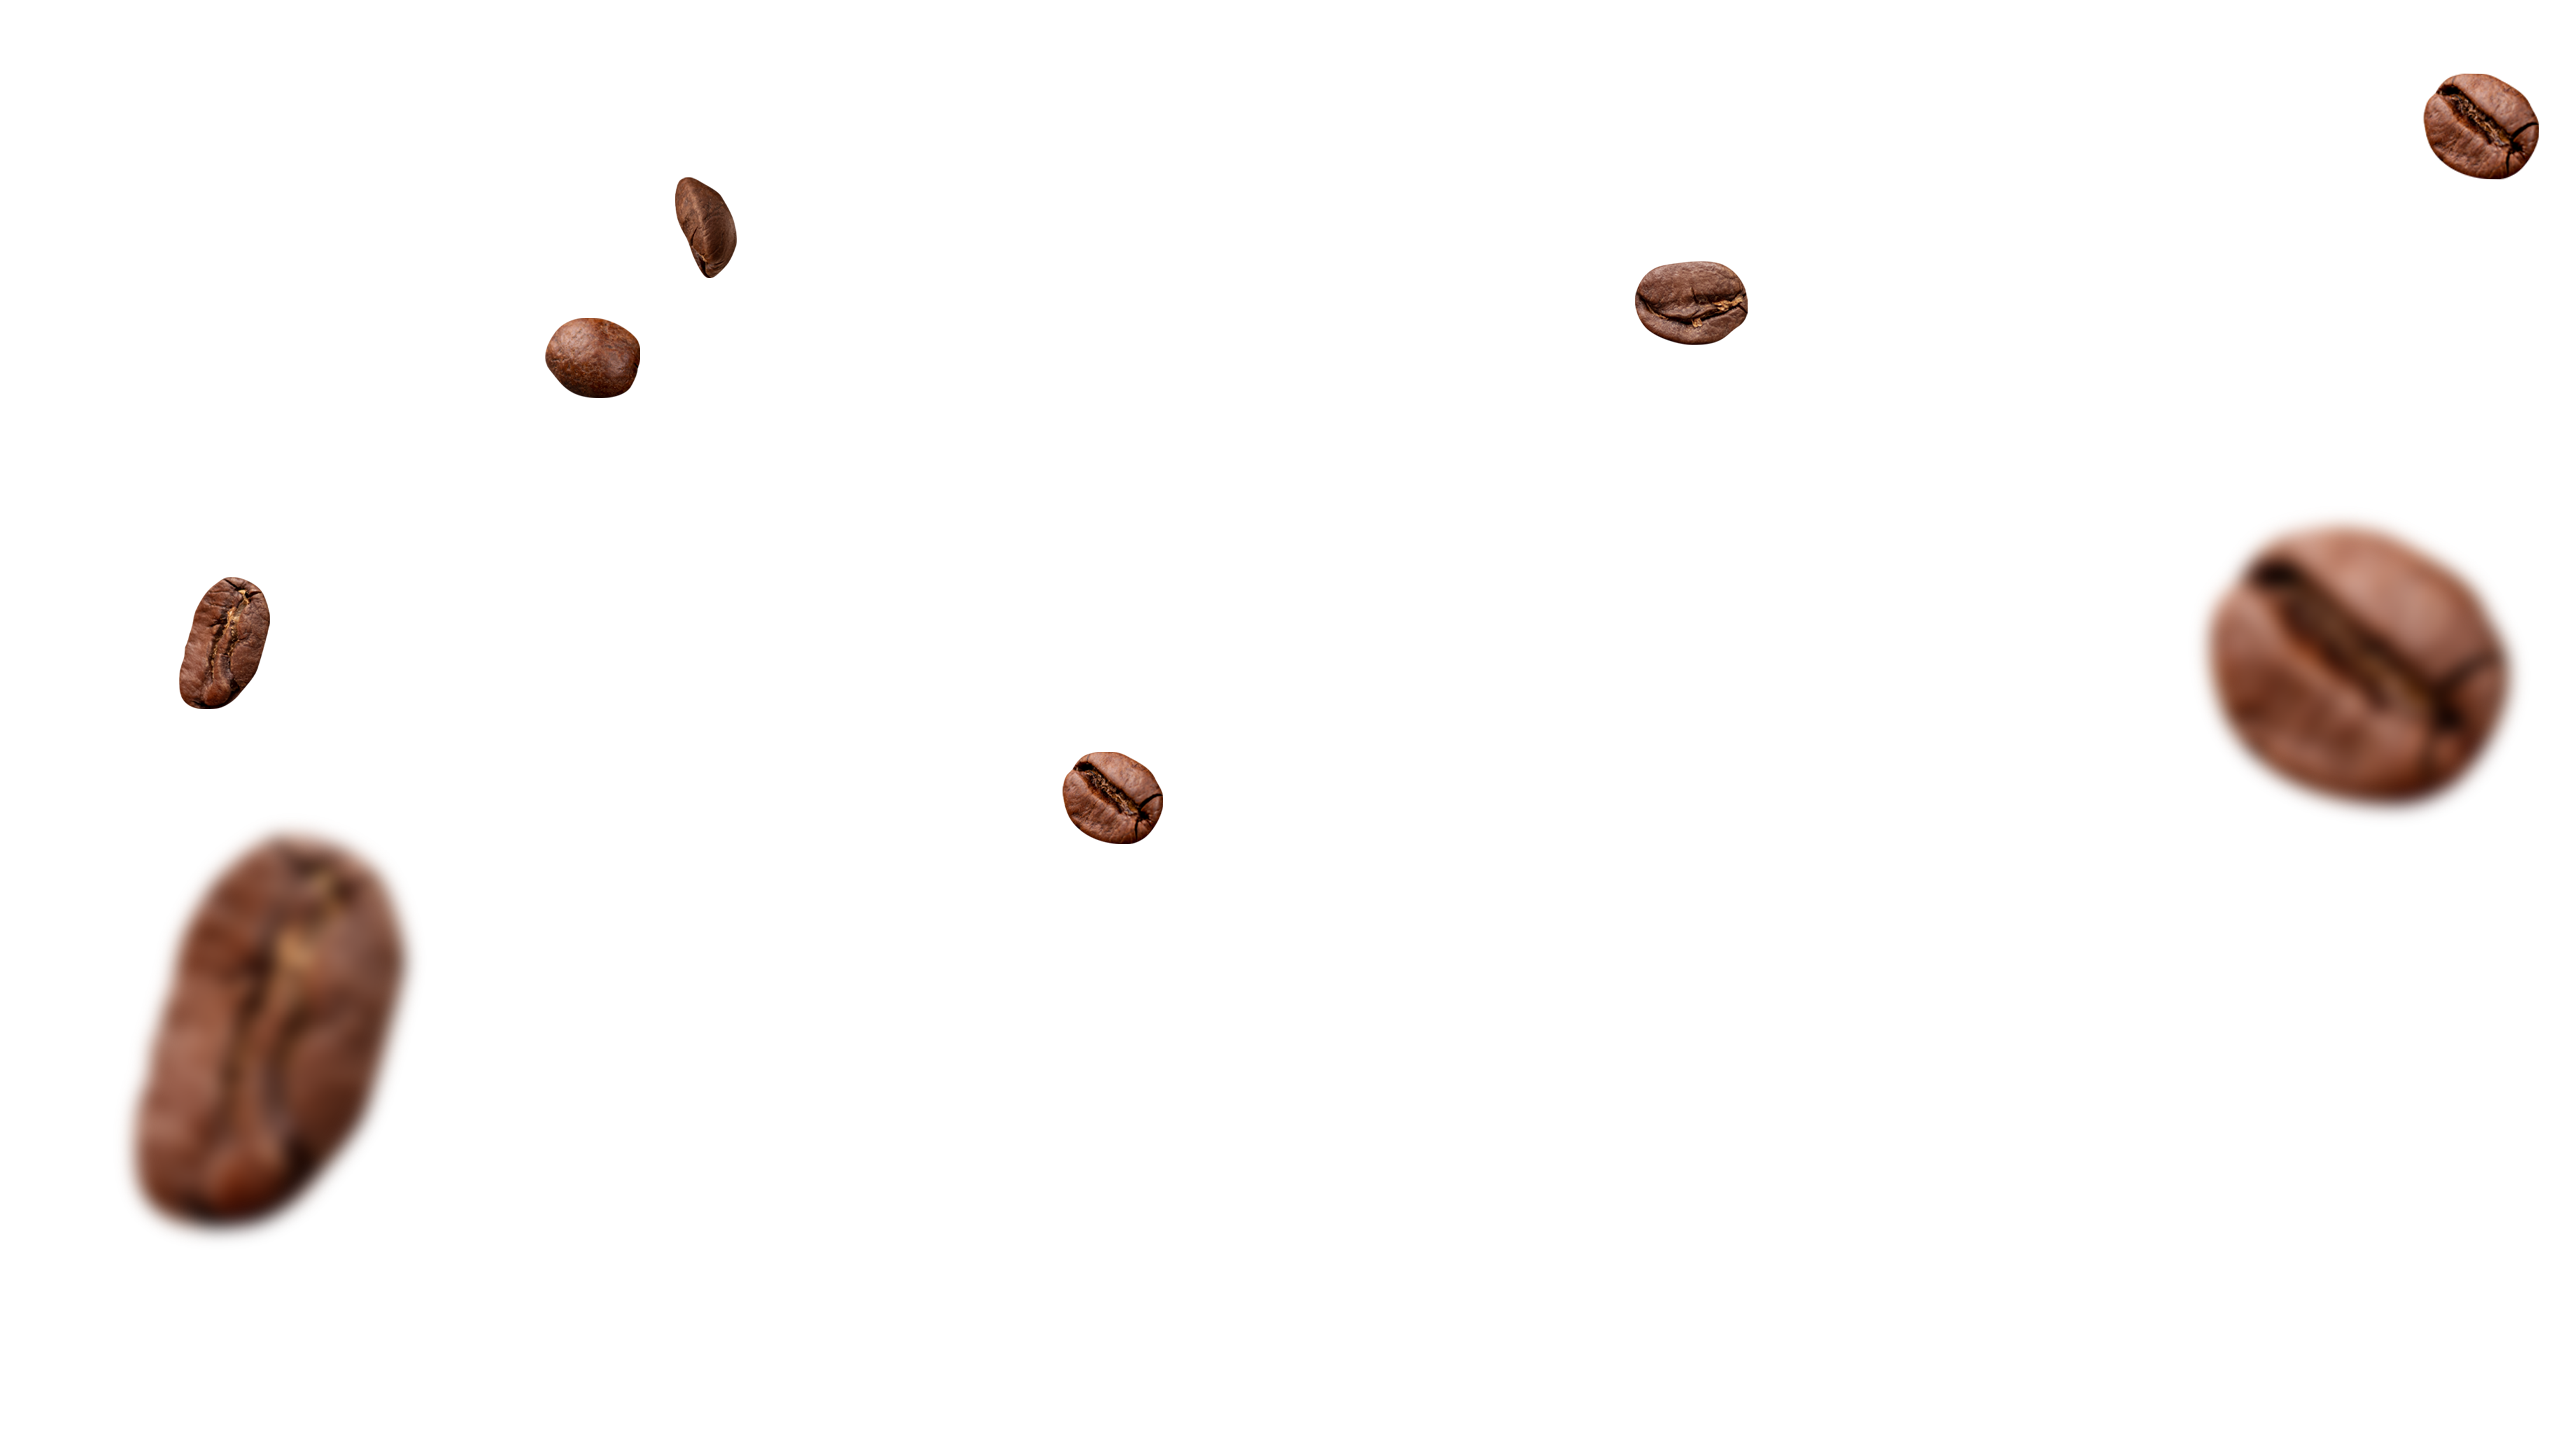
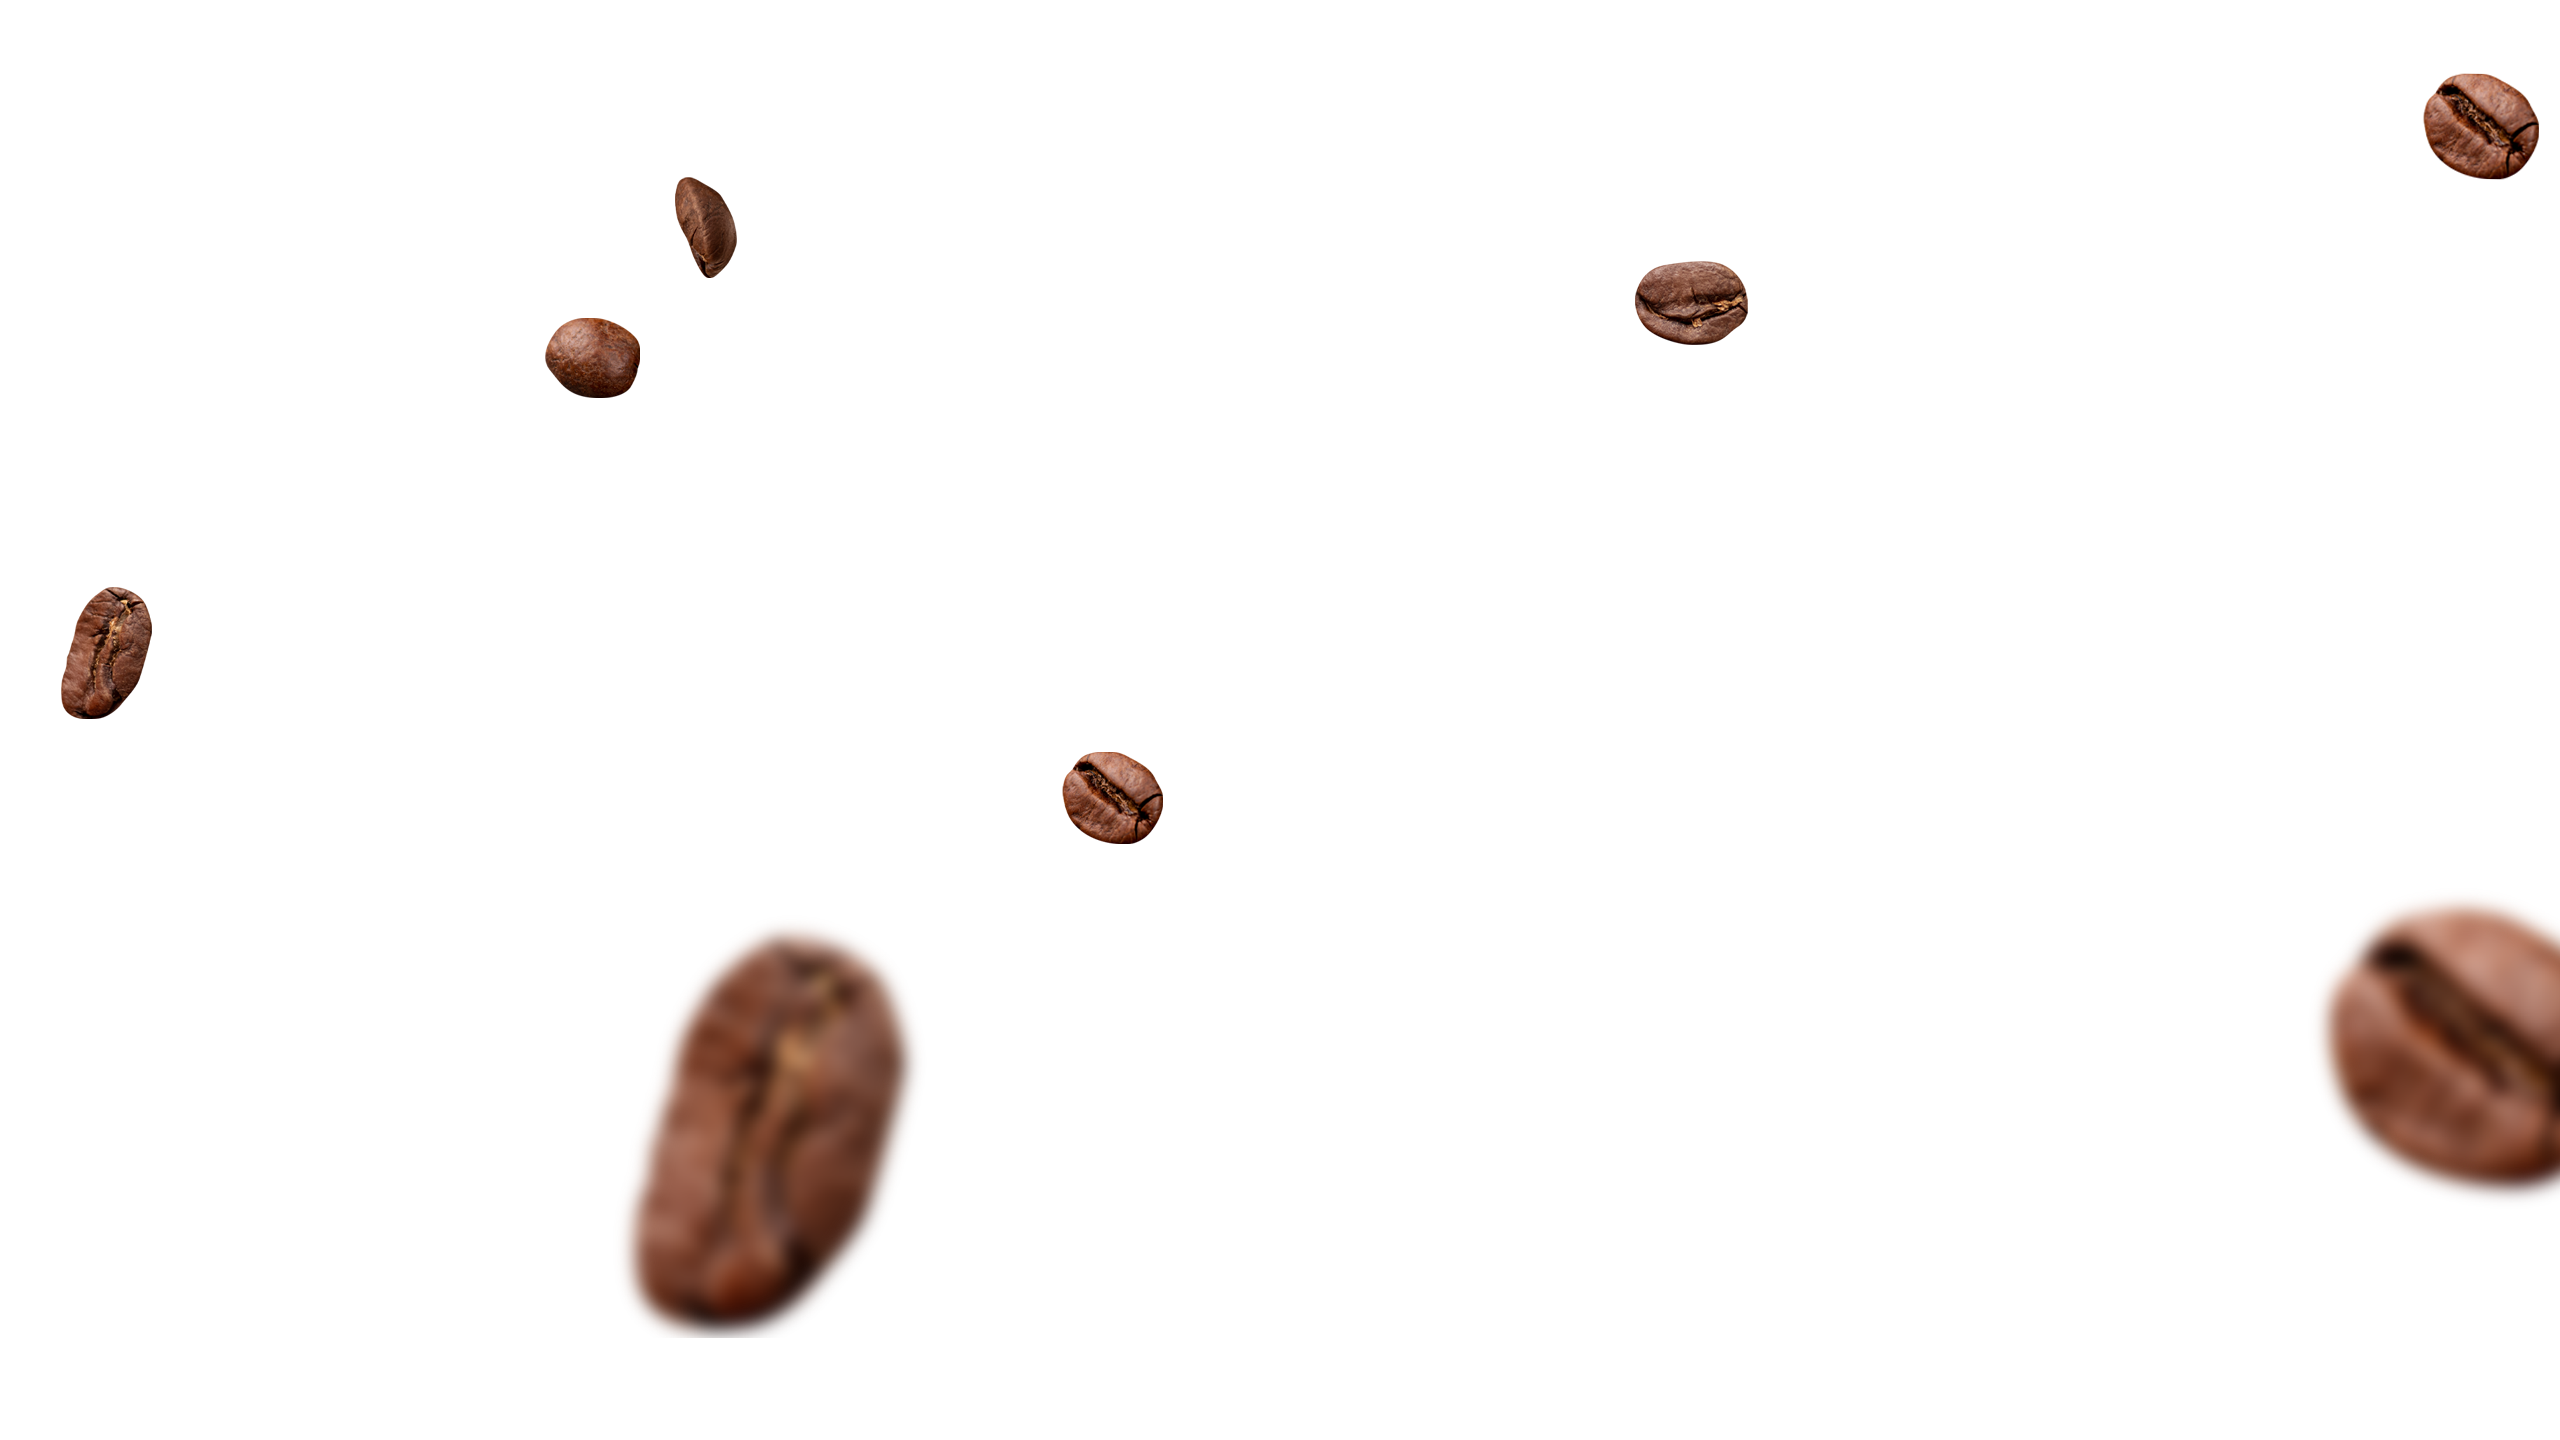
Ajustes agosto

diff --git a/mail/sentValidation.js b/mail/sentValidation.js
@@ -1,46 +1,95 @@
 document.addEventListener('DOMContentLoaded', function() {
-    const form = document.getElementById('contactForm');
+
+    // --- Lógica para el Formulario de Contacto ---
+    const contactForm = document.getElementById('contactForm');
     const formMessage = document.getElementById('formMessage');
     const submitButton = document.getElementById('sendMessageButton');
 
-    // La URL de tu endpoint de Formspree
-    const formspreeEndpoint = 'https://formspree.io/f/mdkdzjqz'; // ¡CAMBIA ESTO CON TU URL REAL!
+    // La URL de tu endpoint de Formspree para el formulario de contacto
+    const formspreeContactEndpoint = 'https://formspree.io/f/mdkdzjqz';
 
-    form.addEventListener('submit', async function(event) {
-        event.preventDefault(); // Evita que el formulario se envíe de forma tradicional (recarga la página)
+    if (contactForm) {
+        contactForm.addEventListener('submit', async function(event) {
+            event.preventDefault();
 
-        submitButton.disabled = true; // Deshabilita el botón para evitar múltiples envíos
-        formMessage.innerHTML = ''; // Limpia cualquier mensaje anterior
+            submitButton.disabled = true;
+            formMessage.innerHTML = '';
 
-        // Recoge los datos del formulario de manera sencilla
-        const formData = new FormData(form);
+            const formData = new FormData(contactForm);
 
-        try {
-            // Envía los datos a Formspree usando la API Fetch
-            const response = await fetch(formspreeEndpoint, {
-                method: 'POST',
-                body: formData,
-                headers: {
-                    'Accept': 'application/json' // Opcional, pero Formspree lo recomienda para AJAX
-                }
-            });
+            try {
+                const response = await fetch(formspreeContactEndpoint, {
+                    method: 'POST',
+                    body: formData,
+                    headers: {
+                        'Accept': 'application/json'
+                    }
+                });
 
-            if (response.ok) { // Si la respuesta es exitosa (código 200 OK)
-                formMessage.innerHTML = '<div class="alert alert-success" role="alert">¡Mensaje enviado con éxito! Te responderemos pronto.</div>';
-                form.reset(); // Reinicia el formulario
-            } else { // Si hay un error en la respuesta de Formspree
-                const data = await response.json();
-                if (data && data.errors) {
-                    formMessage.innerHTML = '<div class="alert alert-danger" role="alert">Error: ' + data.errors.map(err => err.message).join(', ') + '</div>';
+                if (response.ok) {
+                    formMessage.innerHTML = '<div class="alert alert-success" role="alert">¡Mensaje enviado con éxito! Te responderemos pronto.</div>';
+                    contactForm.reset();
                 } else {
-                    formMessage.innerHTML = '<div class="alert alert-danger" role="alert">Lo sentimos, hubo un problema al enviar tu mensaje. Inténtalo de nuevo.</div>';
+                    const data = await response.json();
+                    if (data && data.errors) {
+                        formMessage.innerHTML = '<div class="alert alert-danger" role="alert">Error: ' + data.errors.map(err => err.message).join(', ') + '</div>';
+                    } else {
+                        formMessage.innerHTML = '<div class="alert alert-danger" role="alert">Lo sentimos, hubo un problema al enviar tu mensaje. Inténtalo de nuevo.</div>';
+                    }
                 }
+            } catch (error) {
+                console.error('Error al enviar el formulario de contacto:', error);
+                formMessage.innerHTML = '<div class="alert alert-danger" role="alert">Error de conexión. Asegúrate de tener Internet y vuelve a intentarlo.</div>';
+            } finally {
+                submitButton.disabled = false;
             }
-        } catch (error) { // Si hay un error de red o de conexión
-            console.error('Error al enviar el formulario:', error);
-            formMessage.innerHTML = '<div class="alert alert-danger" role="alert">Error de conexión. Asegúrate de tener Internet y vuelve a intentarlo.</div>';
-        } finally {
-            submitButton.disabled = false; // Vuelve a habilitar el botón
-        }
-    });
+        });
+    }
+
+    // --- Lógica para el Formulario de Newsletter ---
+    const newsletterForm = document.getElementById('newsletterForm');
+    const newsletterMessage = document.getElementById('newsletterMessage');
+    const newsletterButton = document.getElementById('newsletterButton');
+
+    // La URL de tu endpoint de Formspree para el formulario de newsletter
+    const formspreeNewsletterEndpoint = 'https://formspree.io/f/xovllgzg'; // **¡Reemplaza esto con tu URL real!**
+
+    if (newsletterForm) {
+        newsletterForm.addEventListener('submit', async function(event) {
+            event.preventDefault();
+
+            newsletterButton.disabled = true;
+            newsletterMessage.innerHTML = '';
+
+            const formData = new FormData(newsletterForm);
+
+            try {
+                const response = await fetch(formspreeNewsletterEndpoint, {
+                    method: 'POST',
+                    body: formData,
+                    headers: {
+                        'Accept': 'application/json'
+                    }
+                });
+
+                if (response.ok) {
+                    newsletterMessage.innerHTML = '<div class="alert alert-success" role="alert">¡Gracias por suscribirte!</div>';
+                    newsletterForm.reset();
+                } else {
+                    const data = await response.json();
+                    if (data && data.errors) {
+                        newsletterMessage.innerHTML = '<div class="alert alert-danger" role="alert">Error: ' + data.errors.map(err => err.message).join(', ') + '</div>';
+                    } else {
+                        newsletterMessage.innerHTML = '<div class="alert alert-danger" role="alert">Lo sentimos, hubo un problema al suscribirte. Inténtalo de nuevo.</div>';
+                    }
+                }
+            } catch (error) {
+                console.error('Error al enviar el formulario de newsletter:', error);
+                newsletterMessage.innerHTML = '<div class="alert alert-danger" role="alert">Error de conexión. Asegúrate de tener Internet y vuelve a intentarlo.</div>';
+            } finally {
+                newsletterButton.disabled = false;
+            }
+        });
+    }
+
 });

diff --git a/index.html b/index.html
@@ -268,13 +268,13 @@
                     <h2 class="text-secondary font-weight-medium m-0">Conexión Café</h2>
                     <h1 class="display-1 text-secondary m-0">Tu pausa con propósito.</h1>
                     <h2 class="text-secondary m-0">Un café coworking para inspirar y reconectar.</h2>
-                    <div class="buttons-container">
+                    <div class="buttons-container d-flex flex-column gap-3 w-50">
                         <a href="#servicios" class="btn btn-primary font-weight-bold py-2 px-4">☕ Conoce nuestro espacio</a>
                         <a href="#contacto" class="btn btn-secondary font-weight-bold py-2 px-4">📅 Reserva tu visita</a>
                         <a href="https://www.instagram.com/conexioncafe/" target="_blank" class="btn btn-outline-secondary font-weight-bold py-2 px-4"><i class="fab fa-instagram mr-2"></i>Síguenos en Instagram</a>
                     </div>
                 </div>
-                <img class="coffee-image" src="img/capuchinno.png" alt="Café PNG">
+                <img class="coffee-image" src="img/coffeecake-min.png" alt="Café PNG">
             </div>
         </div>
     </div>
@@ -288,7 +288,7 @@
                 <div class="col-lg-7 py-0 py-lg-5">
                     <h1 class="mb-3">Un espacio para la inspiración</h1>
                     <p class="mb-4">Conexión Café nace como un espacio donde las ideas, las personas y la inspiración se encuentran. Más que un café, es un punto de encuentro entre la creatividad y la productividad, entre el trabajo y el disfrute.</p>
-                    <p>En un mundo cada vez más digital, Conexión Café ofrece una experiencia tangible: conectarse con otros profesionales, con uno mismo, con el entorno y con una taza de café que despierta los sentidos. Aquí, cada mesa es una oportunidad, cada conversación una chispa y cada rincón una invitación a crear.</p>
+                    <p>En un mundo cada vez más digital, Conexión Café ofrece una experiencia tangible; conectarse con otros profesionales, con uno mismo, con el entorno y con una taza de café que despierta los sentidos. Aquí, cada mesa es una oportunidad, cada conversación una chispa y cada rincón una invitación a crear.</p>
                     <p>Ya sea que vengas a terminar un proyecto, iniciar un sueño o simplemente a dejarte inspirar, Conexión Café es el lugar donde todo comienza a fluir.</p>
                     <a href="#contacto" class="btn btn-secondary font-weight-bold py-2 px-4 mt-2">Contáctanos</a>
                 </div>
@@ -318,7 +318,7 @@
                             <h4><i class="fa fa-laptop service-icon"></i> Coworking</h4>
                             <p class="m-0">Un espacio diseñado para trabajar sin prisa, con el confort que necesitas para fluir.</p>
                             <p class="m-0">Contamos con WiFi gratuito, tomas eléctricas disponibles y toda la calidez de nuestro menú a tu alcance.</p>
-                            <p class="m-0">Aquí puedes enfocarte, crear y reconectar — siempre acompañado de un buen café.</p>
+                            <p class="m-0">Aquí puedes enfocarte, crear y reconectar; siempre acompañado de un buen café.</p>
                         </div>
                     </div>
                 </div>
@@ -330,7 +330,7 @@
                         <div class="col-sm-7">
                             <h4><i class="fa fa-utensils service-icon"></i> Brunch</h4>
                             <p class="m-0">Porque una buena comida puede transformar el día, en Conexión Café ofrecemos opciones de brunch pensadas para disfrutar con calma.</p>
-                            <p class="m-0">Ideal para venir solo, en pareja o con amigos. Aquí el brunch es más que una comida: es una excusa deliciosa para detenerte y disfrutar.</p>
+                            <p class="m-0">Ideal para venir solo, en pareja o con amigos. Aquí el brunch es más que una comida, es una excusa deliciosa para detenerte y disfrutar.</p>
                         </div>
                     </div>
                 </div>
@@ -527,13 +527,16 @@
                 <h4 class="text-white text-uppercase mb-4" style="letter-spacing: 3px;">Mantente Conectado</h4>
                 <p>Suscríbete a nuestro boletín para recibir las últimas noticias y ofertas.</p>
                 <div class="w-100">
-                    <div class="input-group">
-                        <input type="text" class="form-control border-light" style="padding: 25px;" placeholder="Tu Email">
-                        <div class="input-group-append">
-                            <button class="btn btn-primary font-weight-bold px-3">Suscribirse</button>
+                    <form id="newsletterForm">
+                        <div class="input-group">
+                            <input id="emailNewsletter" name="email" type="email" class="form-control border-light" style="padding: 25px;" placeholder="Tu Email" required>
+                            <div class="input-group-append">
+                                <button id="newsletterButton" type="submit" class="btn btn-primary font-weight-bold px-3">Suscribirse</button>
+                            </div>
                         </div>
+                        <div id="newsletterMessage" class="mt-2 text-white"></div>
+                    </form>
                     </div>
-                </div>
             </div>
         </div>
         <div class="container-fluid text-center text-white border-top mt-4 py-4 px-sm-3 px-md-5" style="border-color: rgba(256, 256, 256, .1) !important;">
